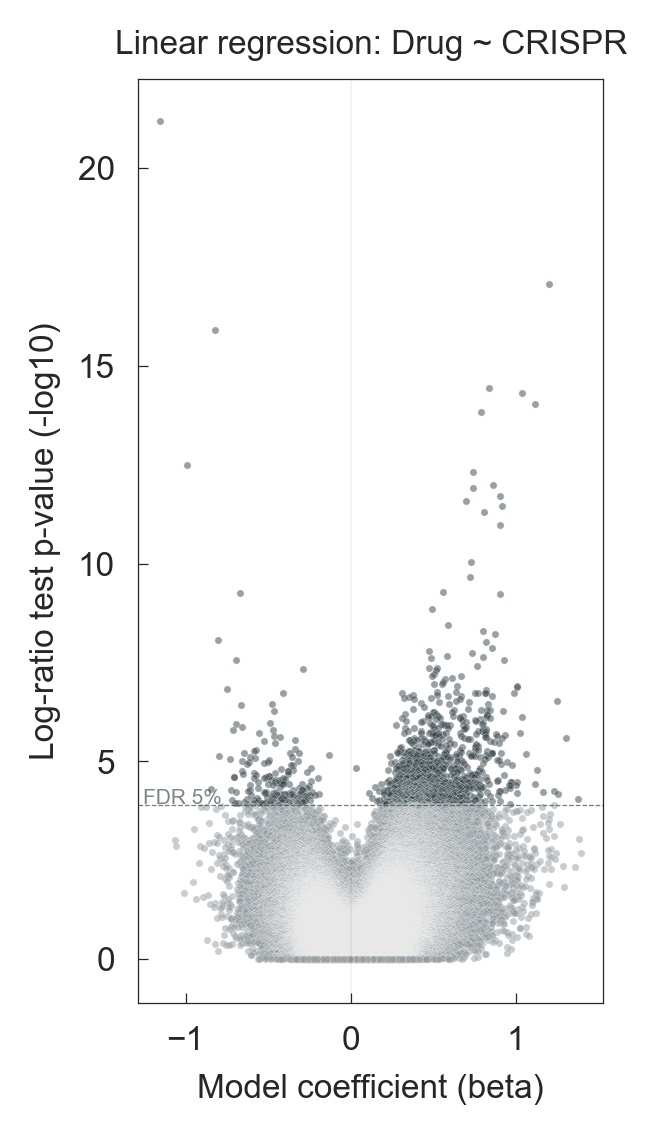
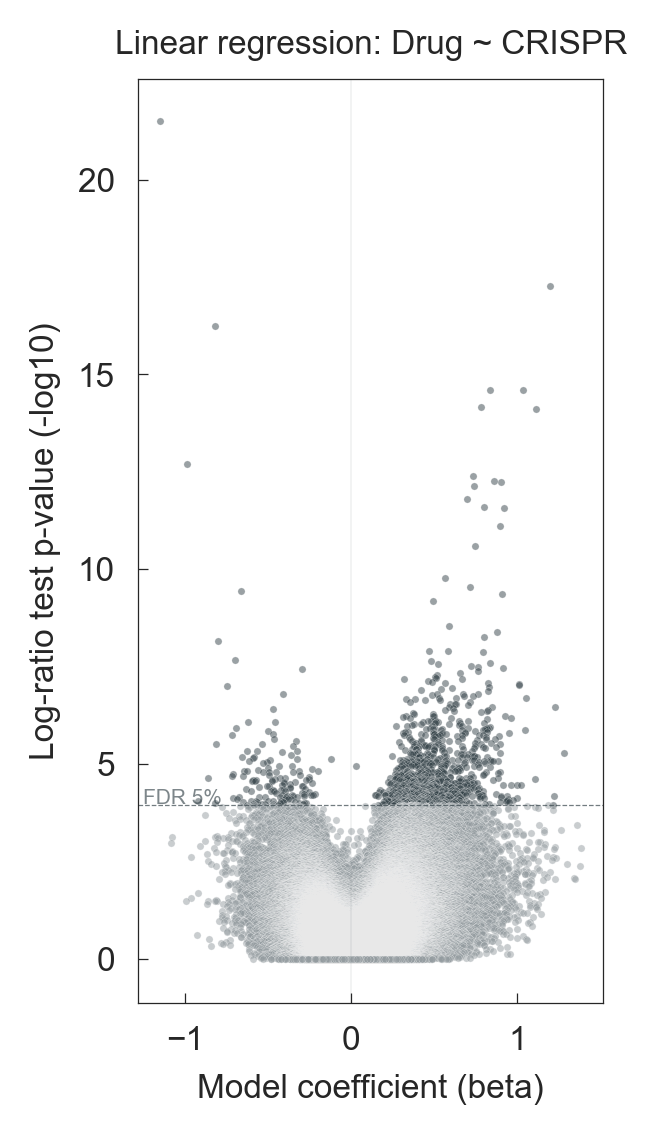
PCA analysis of drug response data

diff --git a/scripts/drug/drug_crispr_pca.py b/scripts/drug/drug_crispr_pca.py
@@ -1,0 +1,114 @@
+#!/usr/bin/env python
+# Copyright (C) 2018 Emanuel Goncalves
+
+import numpy as np
+import pandas as pd
+import seaborn as sns
+import matplotlib.pyplot as plt
+from crispy import bipal_dbgd
+from scipy.stats import pearsonr
+from sklearn.decomposition import PCA
+from sklearn.linear_model import LinearRegression, Ridge
+
+# - Imports
+# Samplesheet
+ss = pd.read_csv('data/gdsc/samplesheet.csv', index_col=0).dropna(subset=['Cancer Type', 'Microsatellite'])
+
+# CRISPR
+crispr = pd.read_csv('data/gdsc/crispr/crisprcleanr_gene.csv', index_col=0).dropna()
+crispr = crispr.subtract(crispr.mean()).divide(crispr.std())
+
+# Drug response
+d_response = pd.read_csv('data/gdsc/drug_single/drug_ic50_merged_matrix.csv', index_col=[0, 1, 2], header=[0, 1])
+d_response.columns = d_response.columns.droplevel(0)
+
+# Growth rate
+growth = pd.read_csv('data/gdsc/growth_rate.csv', index_col=0)
+
+
+# - Overlap
+samples = list(set(d_response).intersection(ss.index).intersection(crispr).intersection(growth.index))
+print(len(samples))
+
+
+# - Filter
+d_response = d_response[samples]
+d_response = d_response[d_response.count(1) > d_response.shape[1] * .85]
+d_response = d_response.fillna(d_response.mean())
+
+
+# - PCA
+# Drug
+d_pca = PCA(n_components=10).fit(d_response[samples].T)
+d_pcs = pd.DataFrame(d_pca.transform(d_response[samples].T), index=samples, columns=map(str, range(10)))
+print(d_pca.explained_variance_ratio_)
+
+# CRISPR
+c_pca = PCA(n_components=10).fit(crispr[samples].T)
+c_pcs = pd.DataFrame(c_pca.transform(crispr[samples].T), index=samples, columns=map(str, range(10)))
+print(c_pca.explained_variance_ratio_)
+
+# Plot variance explained
+plot_df = pd.DataFrame({'drug': d_pca.explained_variance_ratio_, 'crispr': c_pca.explained_variance_ratio_})
+plot_df = plot_df.assign(pc=list(map(lambda x: 'PC%d' % (x + 1), plot_df.index)))
+
+for n, t in [('drug', 'Drug response'), ('crispr', 'CRISPR')]:
+    plot_df = plot_df.sort_values(n)
+    ypos = list(map(lambda x: x[0], enumerate(plot_df.index)))
+
+    plt.barh(ypos, plot_df[n], .8, color=bipal_dbgd[0], align='center')
+
+    plt.yticks(ypos)
+    plt.yticks(ypos, plot_df['pc'])
+
+    plt.xlabel('Explained variance')
+    plt.ylabel('Principal component')
+    plt.title('%s PCA' % t)
+
+    plt.gcf().set_size_inches(2, 3)
+    plt.savefig('reports/drug/%s_pca_varexp.png' % n, bbox_inches='tight', dpi=600)
+    plt.close('all')
+
+
+# - Growth
+plot_df = pd.DataFrame({
+    'pc': d_pcs.loc[samples, '0'], 'growth': growth.loc[samples, 'NC1_ratio_mean']
+})
+
+g = sns.jointplot('pc', 'growth', data=plot_df, space=0, color=bipal_dbgd[0], joint_kws={'edgecolor': 'white', 'alpha': .8})
+
+g.set_axis_labels('Drug response PC 1 (%.1f%%)' % (d_pca.explained_variance_ratio_[0] * 100), 'Growth rate')
+
+plt.gcf().set_size_inches(3, 3)
+plt.savefig('reports/drug/drug_pca_growth.png', bbox_inches='tight', dpi=600)
+plt.close('all')
+
+
+# - Drug response correlation with growth
+dg_cor = d_response[samples].T.corrwith(growth.loc[samples, 'NC1_ratio_mean']).sort_values().rename('cor').reset_index()
+
+# Histogram
+sns.distplot(dg_cor.query("VERSION == 'RS'")['cor'], label='RS', color=bipal_dbgd[0], bins=10, kde=False, kde_kws={'lw': 1.})
+sns.distplot(dg_cor.query("VERSION == 'v17'")['cor'], label='v17', color=bipal_dbgd[1], bins=10, kde=False, kde_kws={'lw': 1.})
+
+plt.title('Drug-response correlation with growth rate')
+plt.xlabel("Pearson's r")
+plt.ylabel('Count')
+plt.legend(loc='upper left')
+
+plt.gcf().set_size_inches(3, 2)
+plt.savefig('reports/drug/drug_growth_corr_hist.png', bbox_inches='tight', dpi=600)
+plt.close('all')
+
+# Plot correlation
+drug_id, drug_name, drug_screen = dg_cor.loc[1, ['DRUG_ID', 'DRUG_NAME', 'VERSION']]
+
+plot_df = pd.DataFrame({
+    'drug': d_response.loc[(drug_id, drug_name, drug_screen), samples], 'growth': growth.loc[samples, 'NC1_ratio_mean']
+})
+
+g = sns.jointplot('drug', 'growth', data=plot_df, space=0, color=bipal_dbgd[0], joint_kws={'edgecolor': 'white', 'alpha': .8})
+g.set_axis_labels('Drug response %s (%s)' % (drug_name, drug_screen), 'Growth rate')
+plt.gcf().set_size_inches(3, 3)
+plt.savefig('reports/drug/drug_growth_jointplot.png', bbox_inches='tight', dpi=600)
+plt.close('all')

diff --git a/scripts/drug/lm_robust_assoc.py b/scripts/drug/lm_robust_assoc.py
@@ -48,7 +48,7 @@ xs, ws = mobems[samples].T, pd.concat([pd.get_dummies(ss[['Cancer Type']]), grow
 
 # Linear regressions
 lm_res = []
-for gene, drug_id, drug_name, drug_screen in ppairs[:3]:
+for gene, drug_id, drug_name, drug_screen in ppairs:
     # Linear regressions of drug and crispr
     lm_res_crispr = lr(xs, crispr.loc[[gene], samples].T, ws)
     lm_res_drug = lr(xs, d_response.loc[[(drug_id, drug_name, drug_screen)], samples].T, ws)
@@ -67,5 +67,5 @@ lm_res = lm_res.assign(drug_lr_fdr=multipletests(lm_res['drug_lr_pval'], method=
 lm_res = lm_res.assign(crispr_lr_fdr=multipletests(lm_res['crispr_lr_pval'], method='fdr_bh')[1])
 
 # Export
-lm_res.sort_values('lr_fdr').to_csv('data/drug/lm_drug_crispr_genomic.csv', index=False)
+lm_res.sort_values('crispr_lr_fdr').to_csv('data/drug/lm_drug_crispr_genomic.csv', index=False)
 print(lm_res.sort_values('crispr_lr_fdr'))
